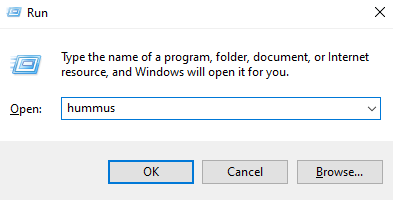
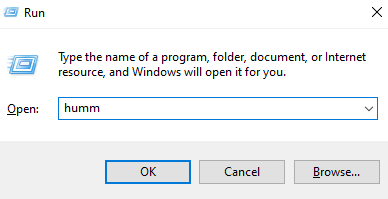
updated the info popup with the new images

diff --git a/src/components/InfoPopup.js b/src/components/InfoPopup.js
@@ -131,7 +131,7 @@ class InfoPopup extends React.Component {
 
                             <p>איזי פיזי.</p>
 
-                            <p>כל מה שצריך לעושת זה ללחוץ win + r ולהריץ את הסקריפט hummus, ולהיכנס לחומוס. (הכנסתי את הסקרפיט לkish)</p>
+                            <p>כל מה שצריך לעושת זה ללחוץ win + r ולהריץ את הסקריפט humm, ולהיכנס לחומוס. (הכנסתי את הסקרפיט לkish)</p>
 
                             <img src="hummus-winr-description.png" />
                             <br />
